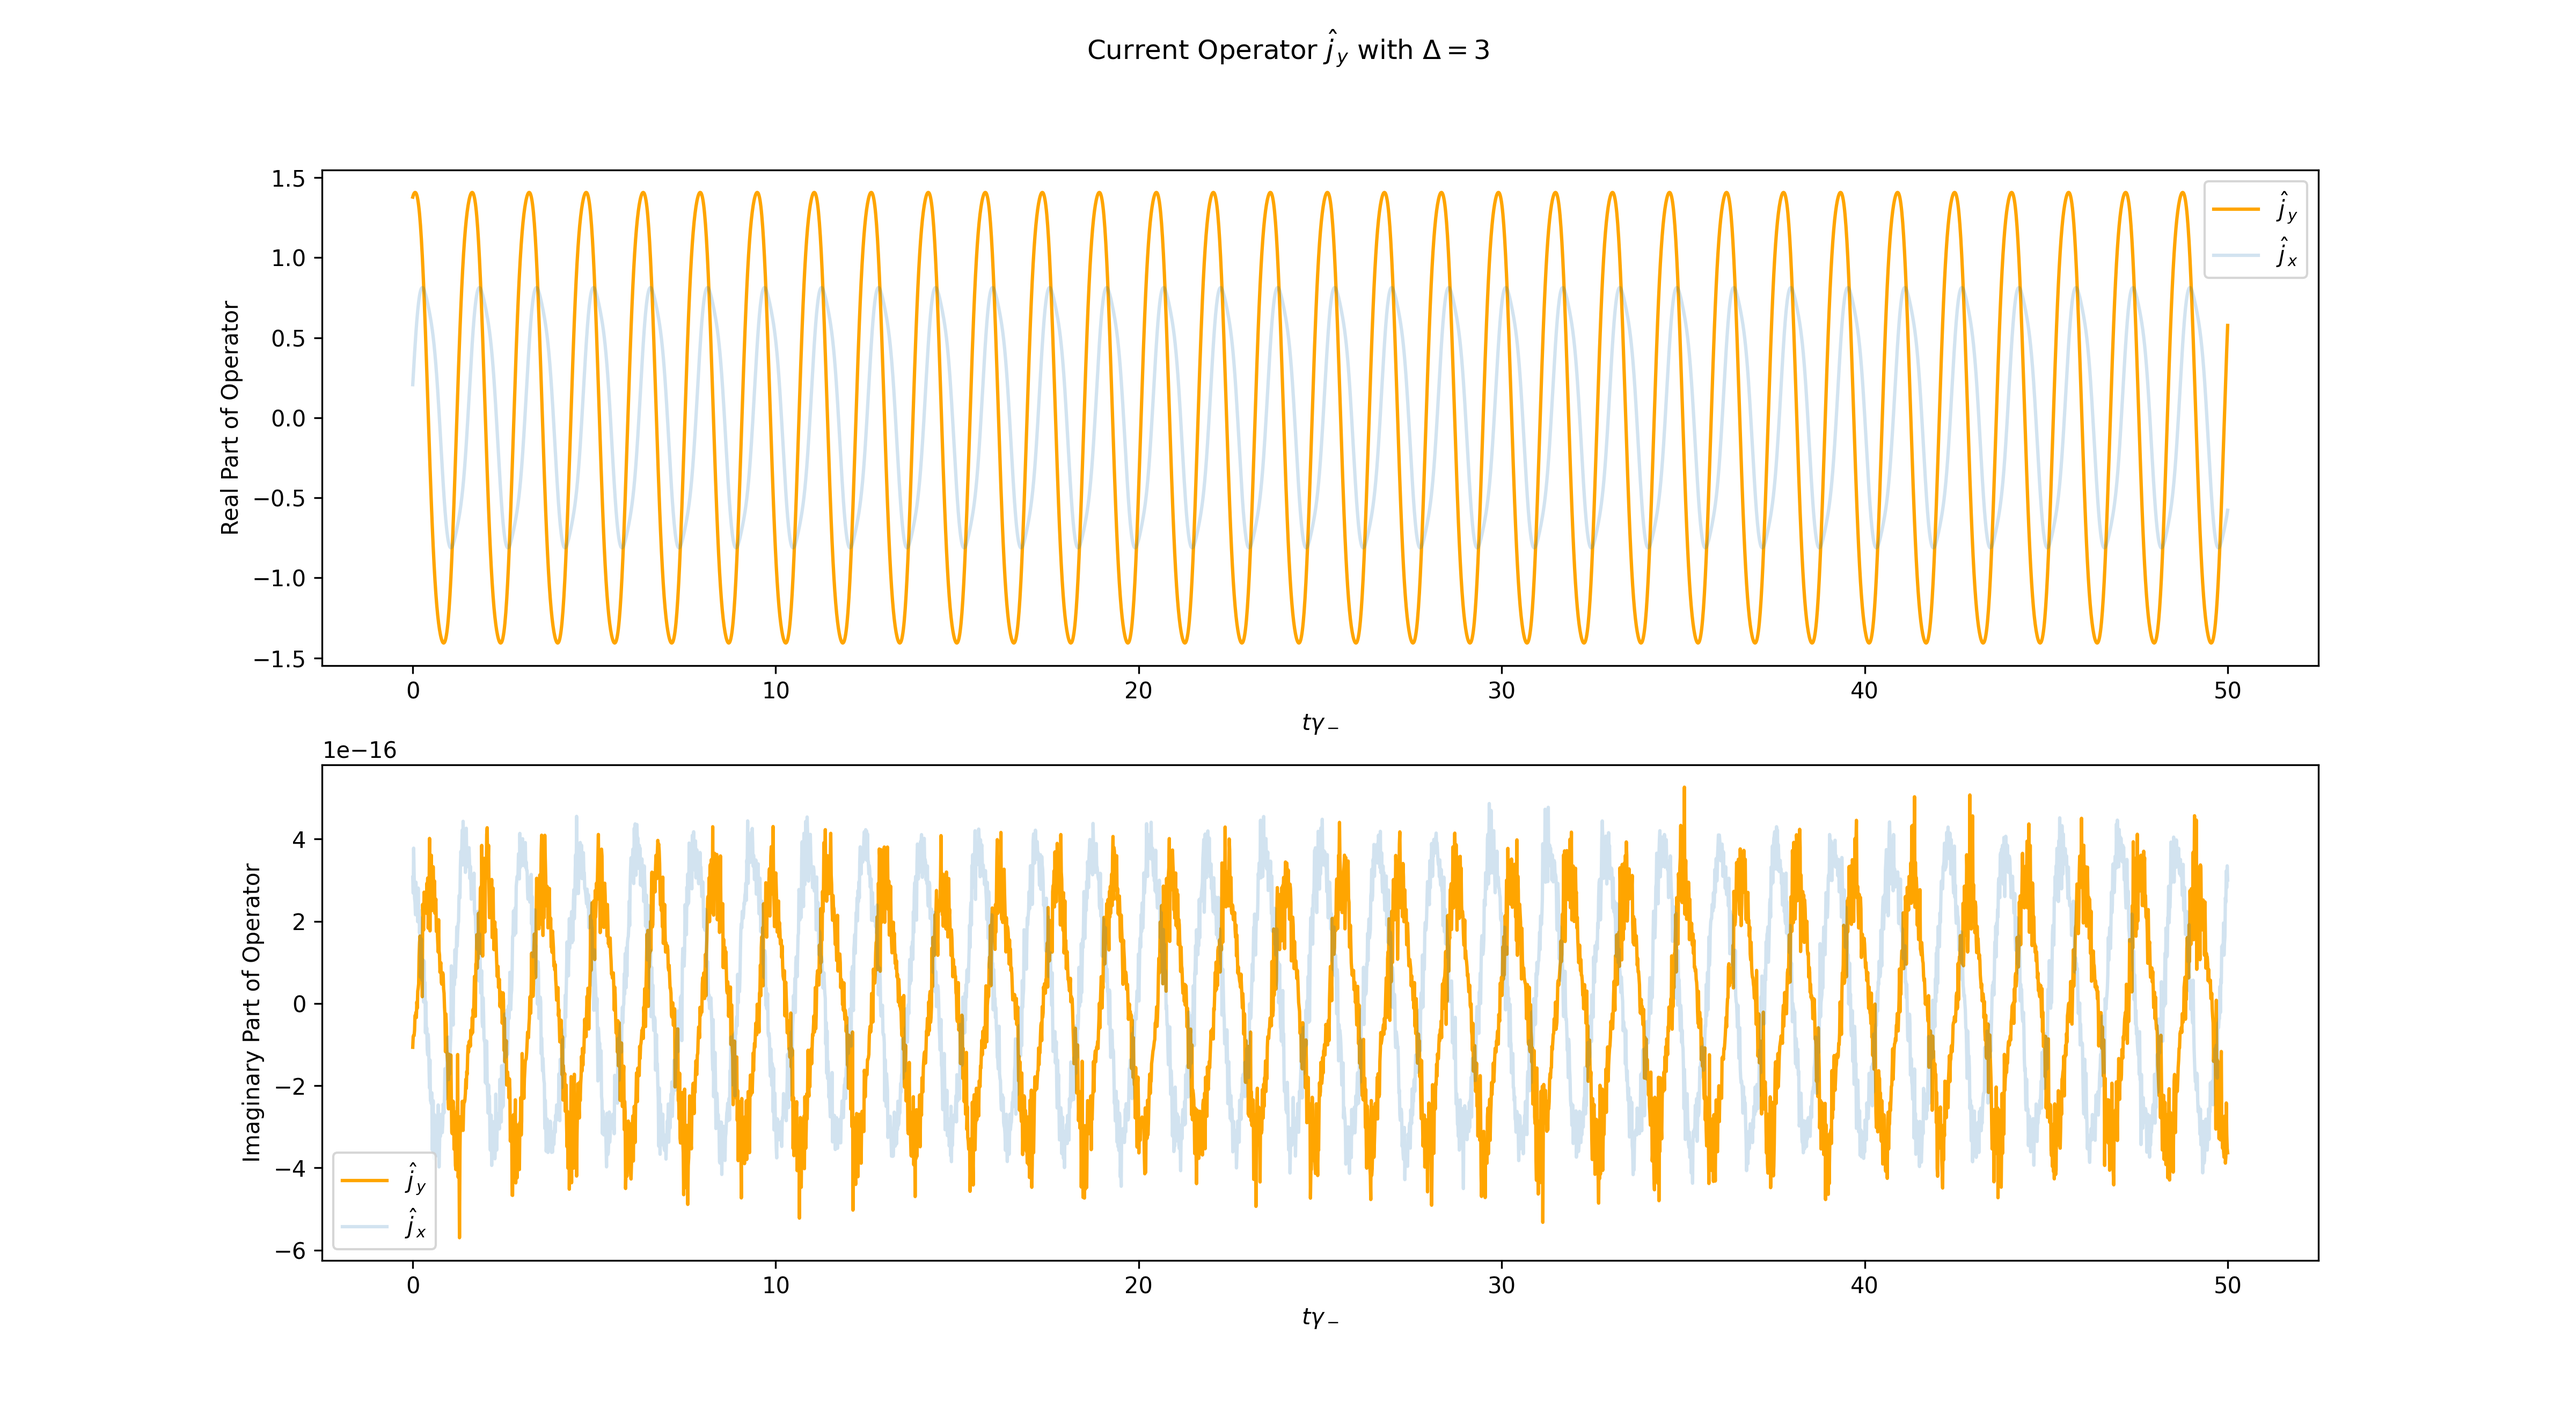
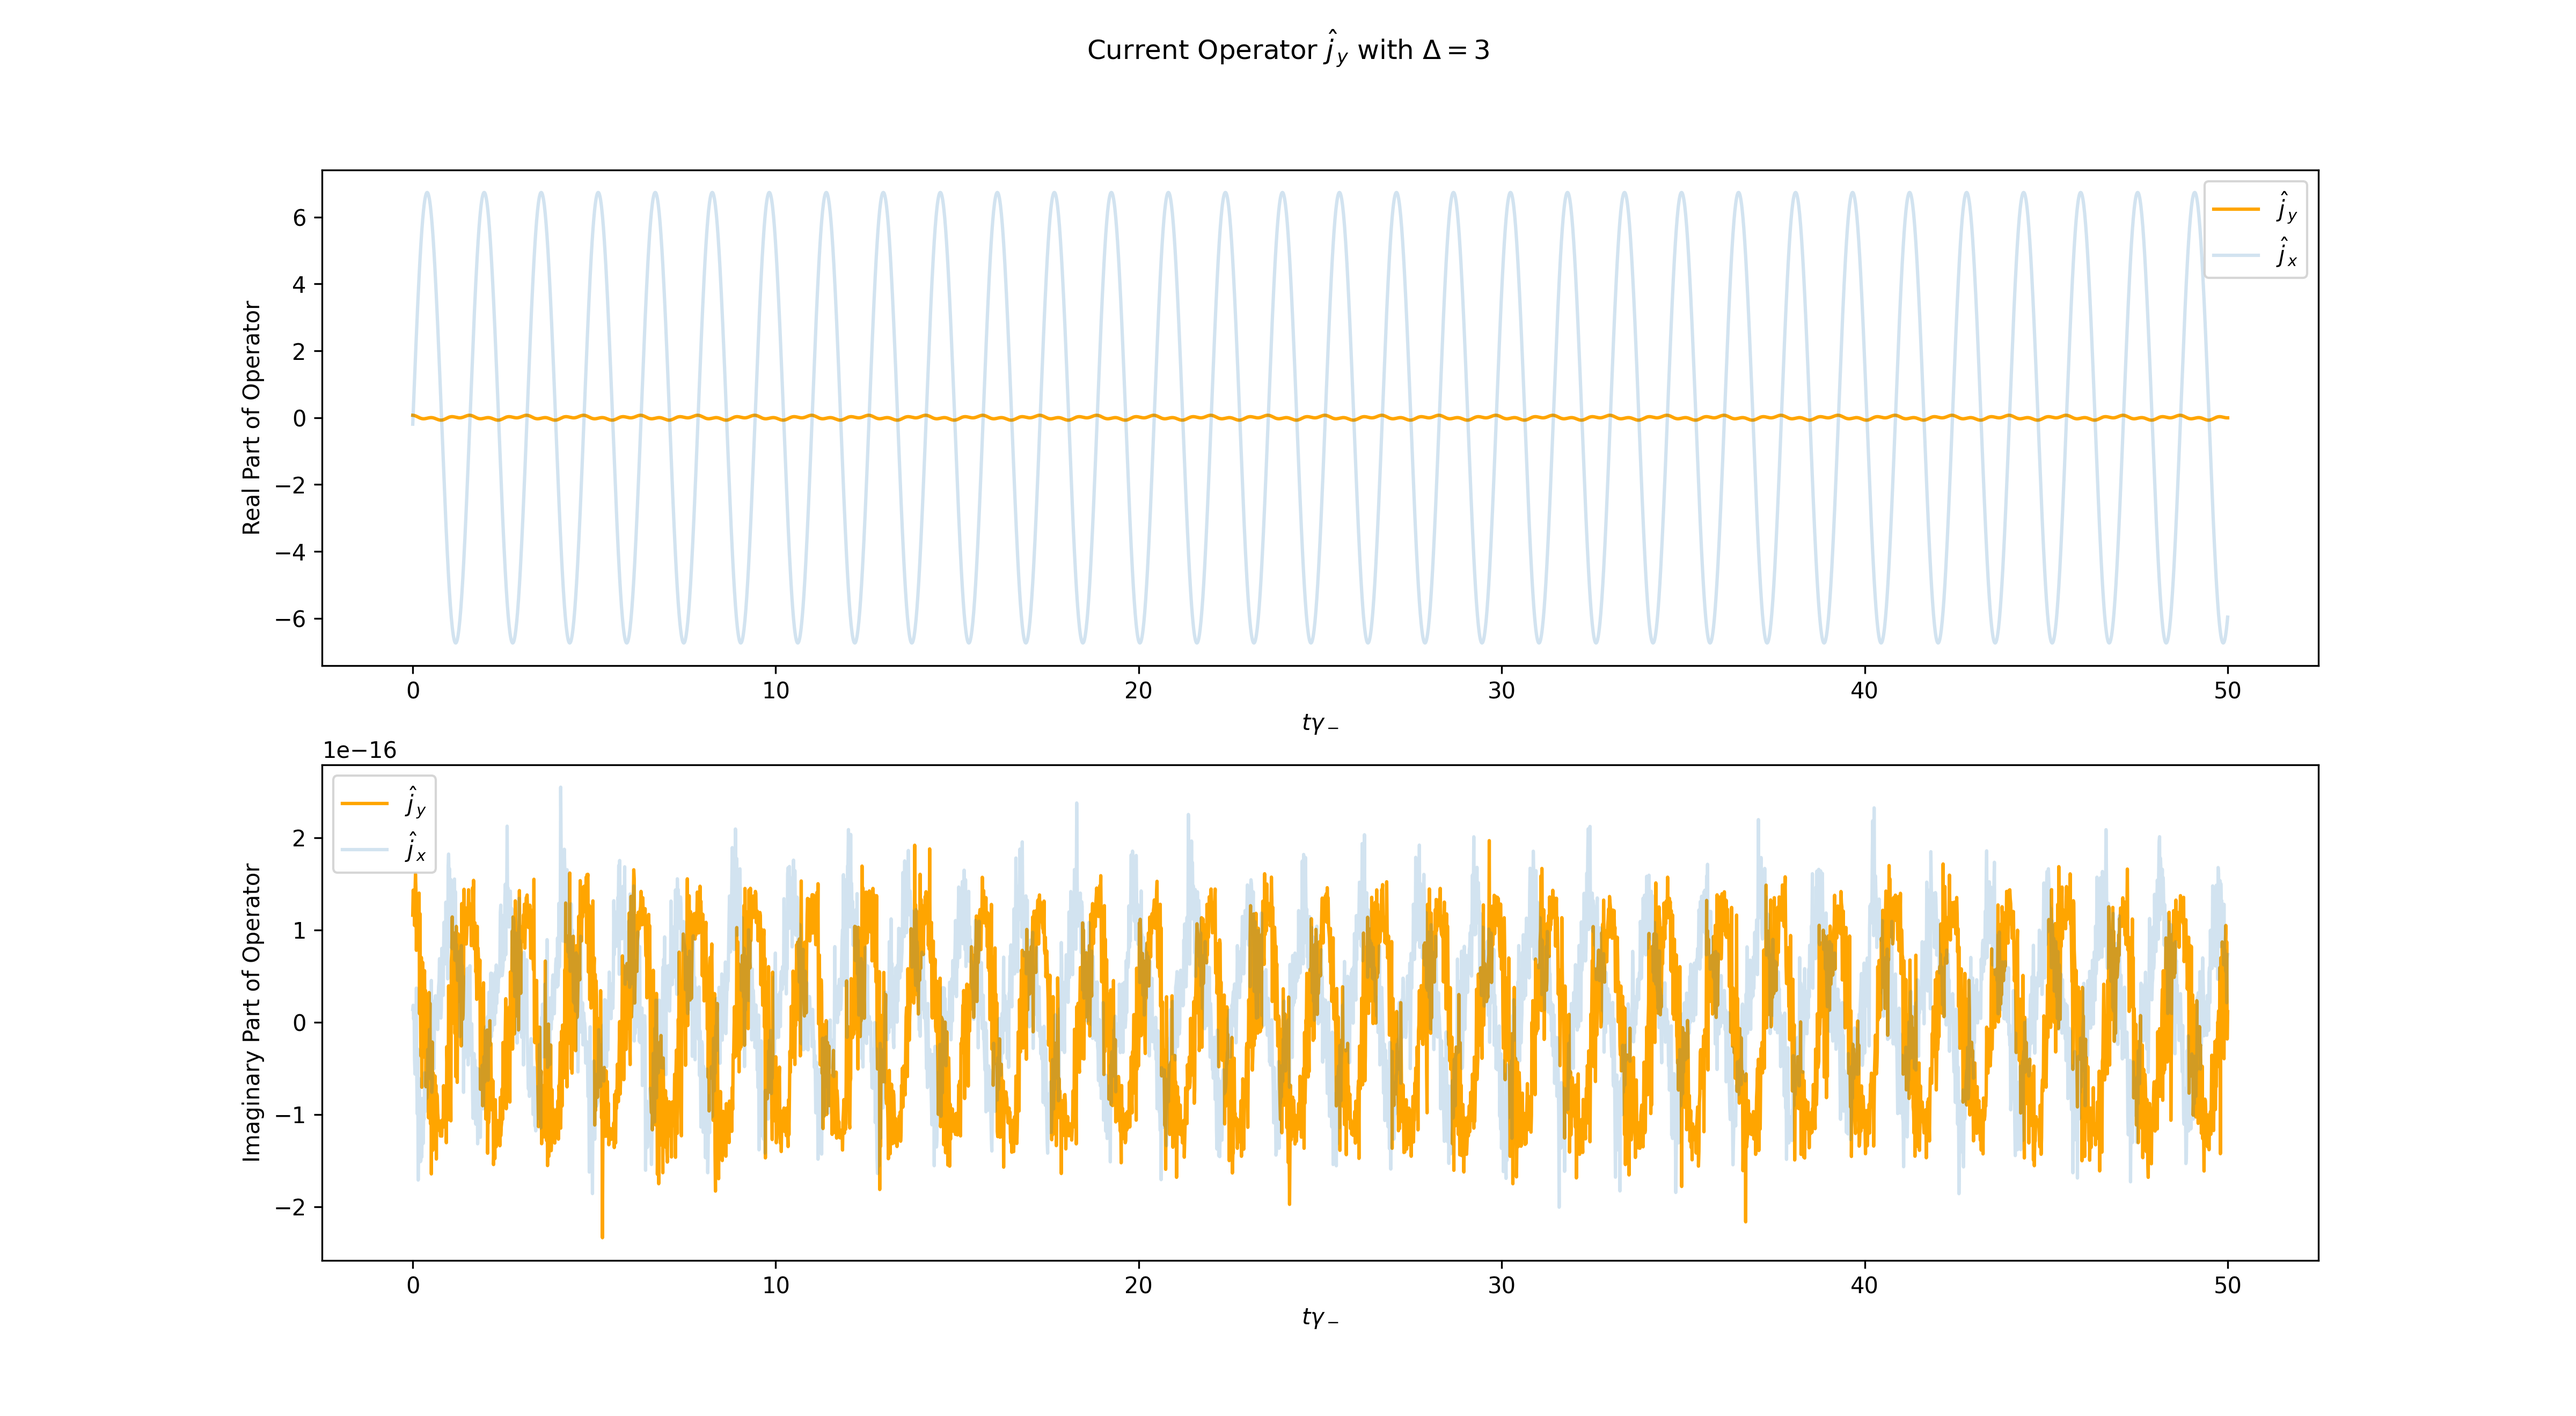
Changed the BZ sampling code so that numK is the number of points along each axis, so the total number if numK**2, and if (0, 0) is a point it only removes that point, rather than enforcing that the number of points on each axis is even. Gives slightly more granular and intuitive control over how ma

diff --git a/chern_insulator/Ensemble.py b/chern_insulator/Ensemble.py
@@ -76,10 +76,8 @@ class Ensemble:
 
     def SampleBrillouinZone(self, numK: int) -> None:
         """
-        Samples the Brillouin Zone (kx, ky in [-pi, pi]) evenly on
-        both axes to obtain a number of samples closest to numK.
-        i.e. it will samples floor(sqrt(numK)) points on the x and y axes
-        of the Brillouin zone.
+        Samples the Brillouin Zone (kx, ky in [-pi, pi]) using a
+        numK-by-numK grid.
 
         This function automatically adds the models with the associated
         momentum values to the ensemble.
@@ -87,21 +85,21 @@ class Ensemble:
         Parameters
         ----------
         numK : int
-            The number of desired momentum points that we want to sample.
+            The side length of the grid we want to sample.
         """
-
-        # Samples the Brillouin zone.
-        sqrtK = np.floor(np.sqrt(numK)).astype(int)
-        # Makes sure we have an even number of points along each axis.
-        if sqrtK % 2 != 0:
-            sqrtK += 1
 
         offsetX, offsetY = 0, 0.3
         print(f"x-offset: {offsetX}, y-offset: {offsetY}")
-        xPoints = np.linspace(-np.pi + offsetX, np.pi - offsetX, sqrtK)
-        yPoints = np.linspace(-np.pi + offsetY, np.pi - offsetY, sqrtK)
+        xPoints = np.linspace(-np.pi + offsetX, np.pi - offsetX, numK)
+        yPoints = np.linspace(-np.pi + offsetY, np.pi - offsetY, numK)
         x, y = np.meshgrid(xPoints, yPoints)
- 
+
+        # Masks our the (0, 0) point, since the code breaks there.
+        # Better than enforcing that numK has to be even.
+        zeroMask = (x == 0) & (y == 0)
+        x = x[~zeroMask]
+        y = y[~zeroMask]
+         
         # Stacks x and y so that the last axis differentiates between them.
         momentums = np.stack((x.flatten(), y.flatten()), axis=-1)
 

diff --git a/chern_insulator/main.py b/chern_insulator/main.py
@@ -5,8 +5,8 @@ from data import EnsembleParameters
 from Ensemble import Ensemble
 from Plotting import Plotting
 
-# Number of TOTAL momentum points.
-numK = 20**2
+# Number of momentum points on each axis.
+numK = 21
 tauMax = 50
 
 params = EnsembleParameters(
